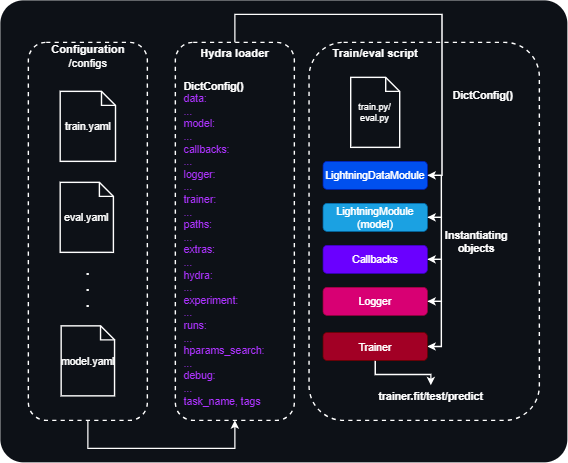
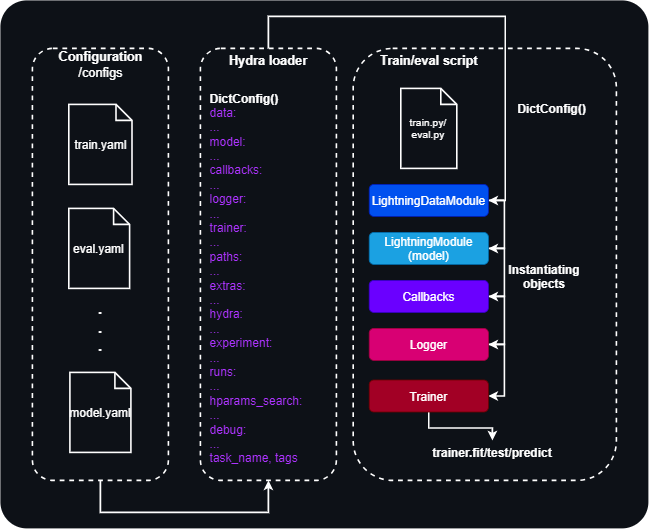
Readme update

diff --git a/README.md b/README.md
@@ -62,8 +62,6 @@ python src/train.py trainer=gpu
   - [Custom config resolvers](#custom-config-resolvers)
   - [Simplify complex modules configuring](#simplify-complex-modules-configuring)
 - [Logs](#logs)
-- [Data](#data)
-- [Notebooks](#notebooks)
 - [Hyperparameters search](#hyperparameters-search)
 - [Docker](#docker)
 - [Tests](#tests)
@@ -141,7 +139,7 @@ This part of the diagram illustrates how configuration files (train.yaml, eval.y
 
 The diagram shows how Hydra loads all configuration files and combines them into a single configuration object (DictConfig). This unified configuration object simplifies the management of settings across different modules and aspects of the project, such as data handling, model specifics, callbacks, logging, and the training process.
 
-*Train/test Script*
+*Train/eval script*
 
  This section represents the operational part of the project. Scripts train.py and eval.py are required for training and evaluatging the model. DictConfig: The combined configuration object passed to these scripts, guiding the instantiation of the subsequent components.
 
